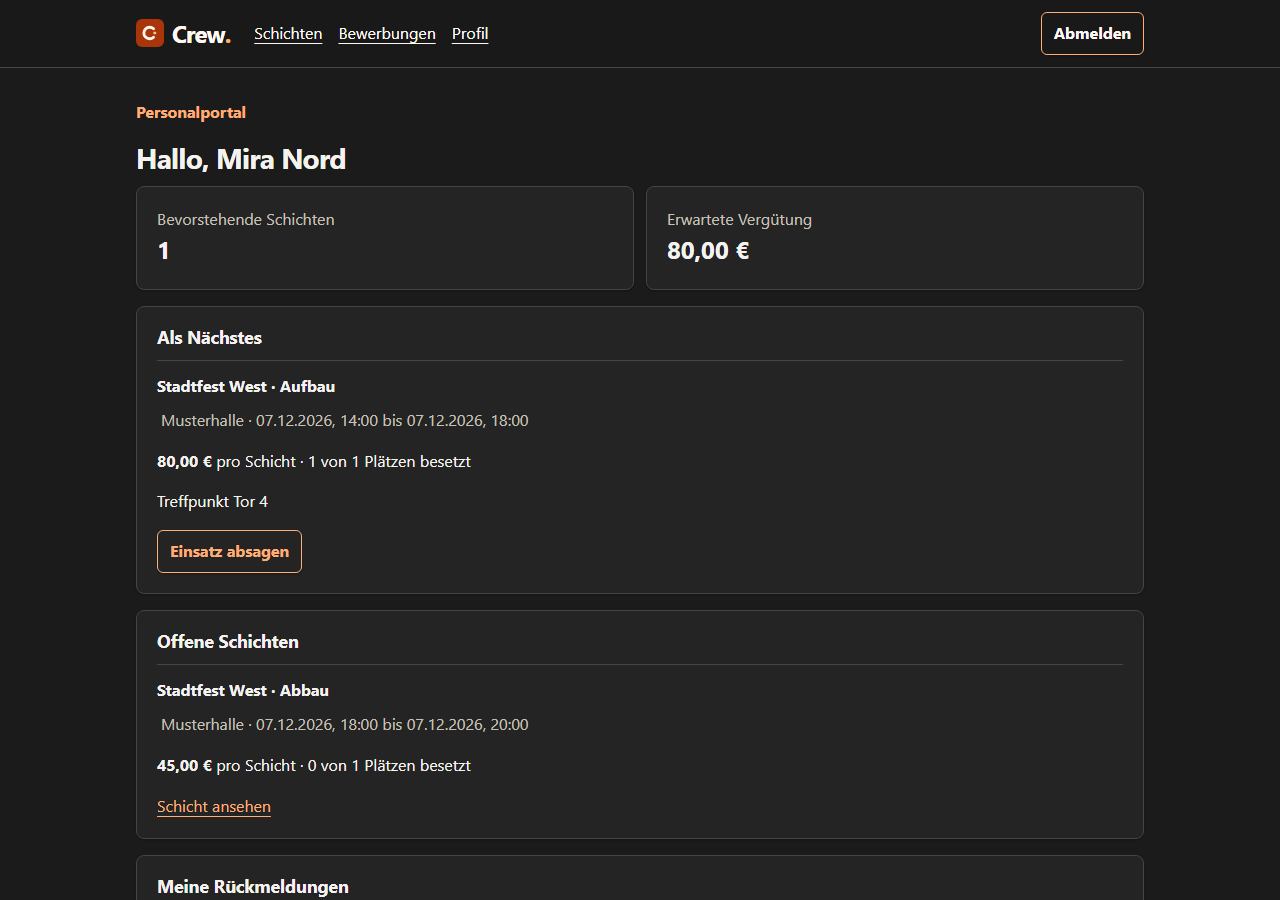
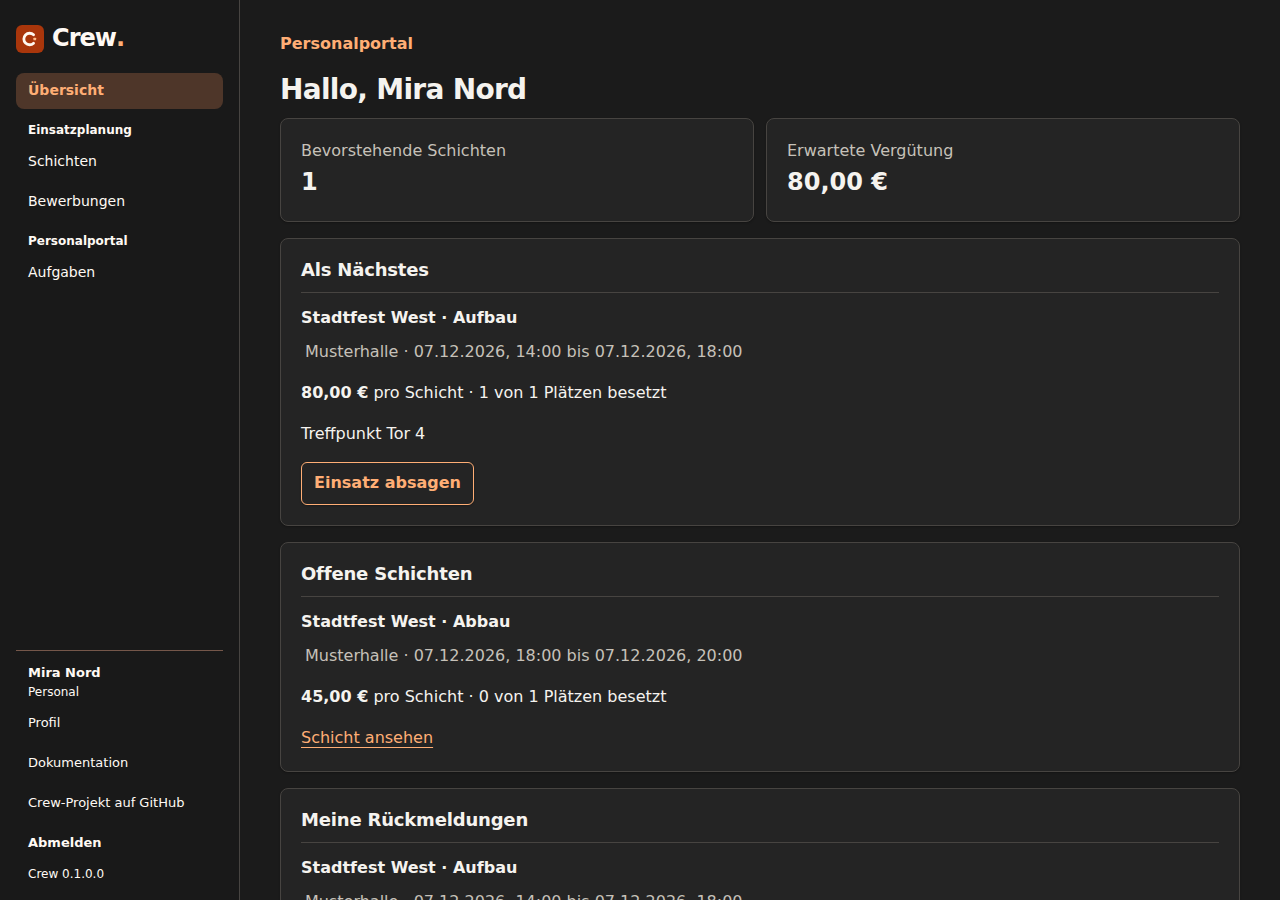
Aktuelle Crew-Seitenleiste in README-Aufnahmen zeigen

diff --git a/README.md b/README.md
@@ -52,7 +52,7 @@ Beim fiktiven **Stadtfest West** schreibt die Dispo den Aufbau für den Personal
 
 <picture>
   <source media="(prefers-color-scheme: dark)" srcset="docs/ansichten/personalportal-dunkel.png">
-  <img src="docs/ansichten/personalportal-hell.png" alt="Das Personalportal zeigt Miras bestätigte Aufbauschicht, 80 Euro erwartete Vergütung und die Einladung zum Abbau." width="960">
+  <img src="docs/ansichten/personalportal-hell.png" alt="Crew-Personalportal mit gruppierter Seitenleiste, Miras bestätigter Aufbauschicht, 80 Euro erwarteter Vergütung und der Einladung zum Abbau." width="960">
 </picture>
 
 [Personalportal hell](docs/ansichten/personalportal-hell.png) · [Personalportal dunkel](docs/ansichten/personalportal-dunkel.png)
